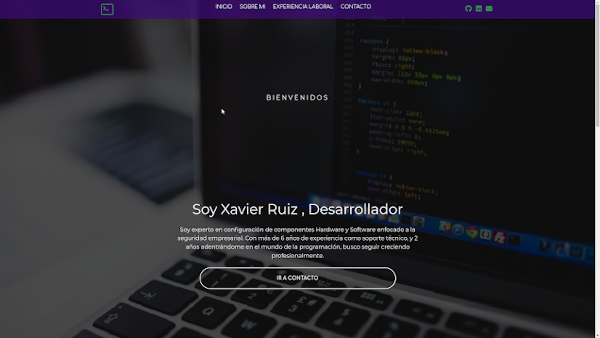
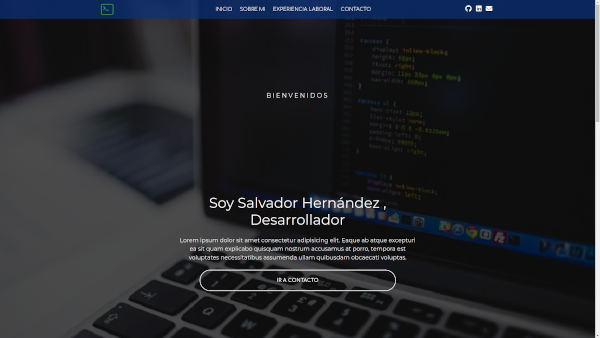
cambiando el color

diff --git a/css/style.css b/css/style.css
@@ -26,7 +26,7 @@ html {
 }
 
 #inicio .contenido header {
-    background-color: #3e087cb0;
+    background-color: #08317cb0;
     position: fixed;
     width: 100%;
     z-index: 100;
@@ -51,6 +51,7 @@ html {
     list-style: none;
     display: flex;
     align-items: center;
+    margin:auto;
 }
 
 .contenido-header nav ul  li a{
@@ -85,7 +86,7 @@ html {
 }
 
 .redes a i, .redes-footer a i {
-    color: #379452;
+    color: #ffffff;
     font-size: 1.3em;
     transition: .4s;
 }
@@ -235,7 +236,7 @@ html {
 #experiencia {
     /*background: #3d3e42;
     color: #9099a0;*/
-    background: #460393;
+    background: #036493;
     color: #fff;
 }
 
@@ -246,6 +247,7 @@ html {
 
 #experiencia .experiencia-titulo, #contacto .titulo-seccion {
     text-align: center;
+    text-shadow: 0.1px 0.1px 0.5px #ffffff;
     padding: 60px;
     font-size: 20px;
     text-transform: uppercase;
@@ -257,6 +259,10 @@ html {
     display: flex;
     justify-content: space-evenly;
     padding: 20px;
+}
+
+.experiencia div {
+    padding: 15px;
 }
 
 .columna-empleo {
@@ -289,7 +295,7 @@ html {
 
 footer {
     padding-top: 40px;
-    background: #310f58;
+    background: #036493;
     color: #ffffff;
 }
 
@@ -300,7 +306,7 @@ footer .conteiner-footer {
 
 footer .conteiner-footer a {
     text-decoration: none;
-    color: #379452;
+    color: #ffffff;
     transition: .5s;
 }
 
@@ -324,7 +330,7 @@ footer .conteiner-footer, .conteiner-footer div {
 
     nav.responsive {
         display: block ;
-        background-color: #3e087cb0;
+        background-color: #08317cb0;
         width: 100%;
         position: absolute;
         top: 60px;

diff --git a/index.html b/index.html
@@ -49,11 +49,7 @@
                     <div class="text">
                         <h2>Soy <span class="nombre"></span> , Desarrollador</h2>
                         <p class="descripcion">
-                            Soy experto en configuración de componentes Hardware y Software
-                            enfocado a la seguridad empresarial.
-                            Con más de 6 años de experiencia como soporte técnico, y 2 años
-                            adentrándome en el mundo de la programación, busco seguir
-                            creciendo profesionalmente.
+                            Lorem ipsum dolor sit amet consectetur adipisicing elit. Eaque ab atque excepturi ea sit quam explicabo quisquam nostrum accusamus at porro, tempora est voluptates necessitatibus assumenda ullam quibusdam obcaecati voluptas.
                         </p>
                         <a href="#contacto">Ir a Contacto</a>
                     </div>
